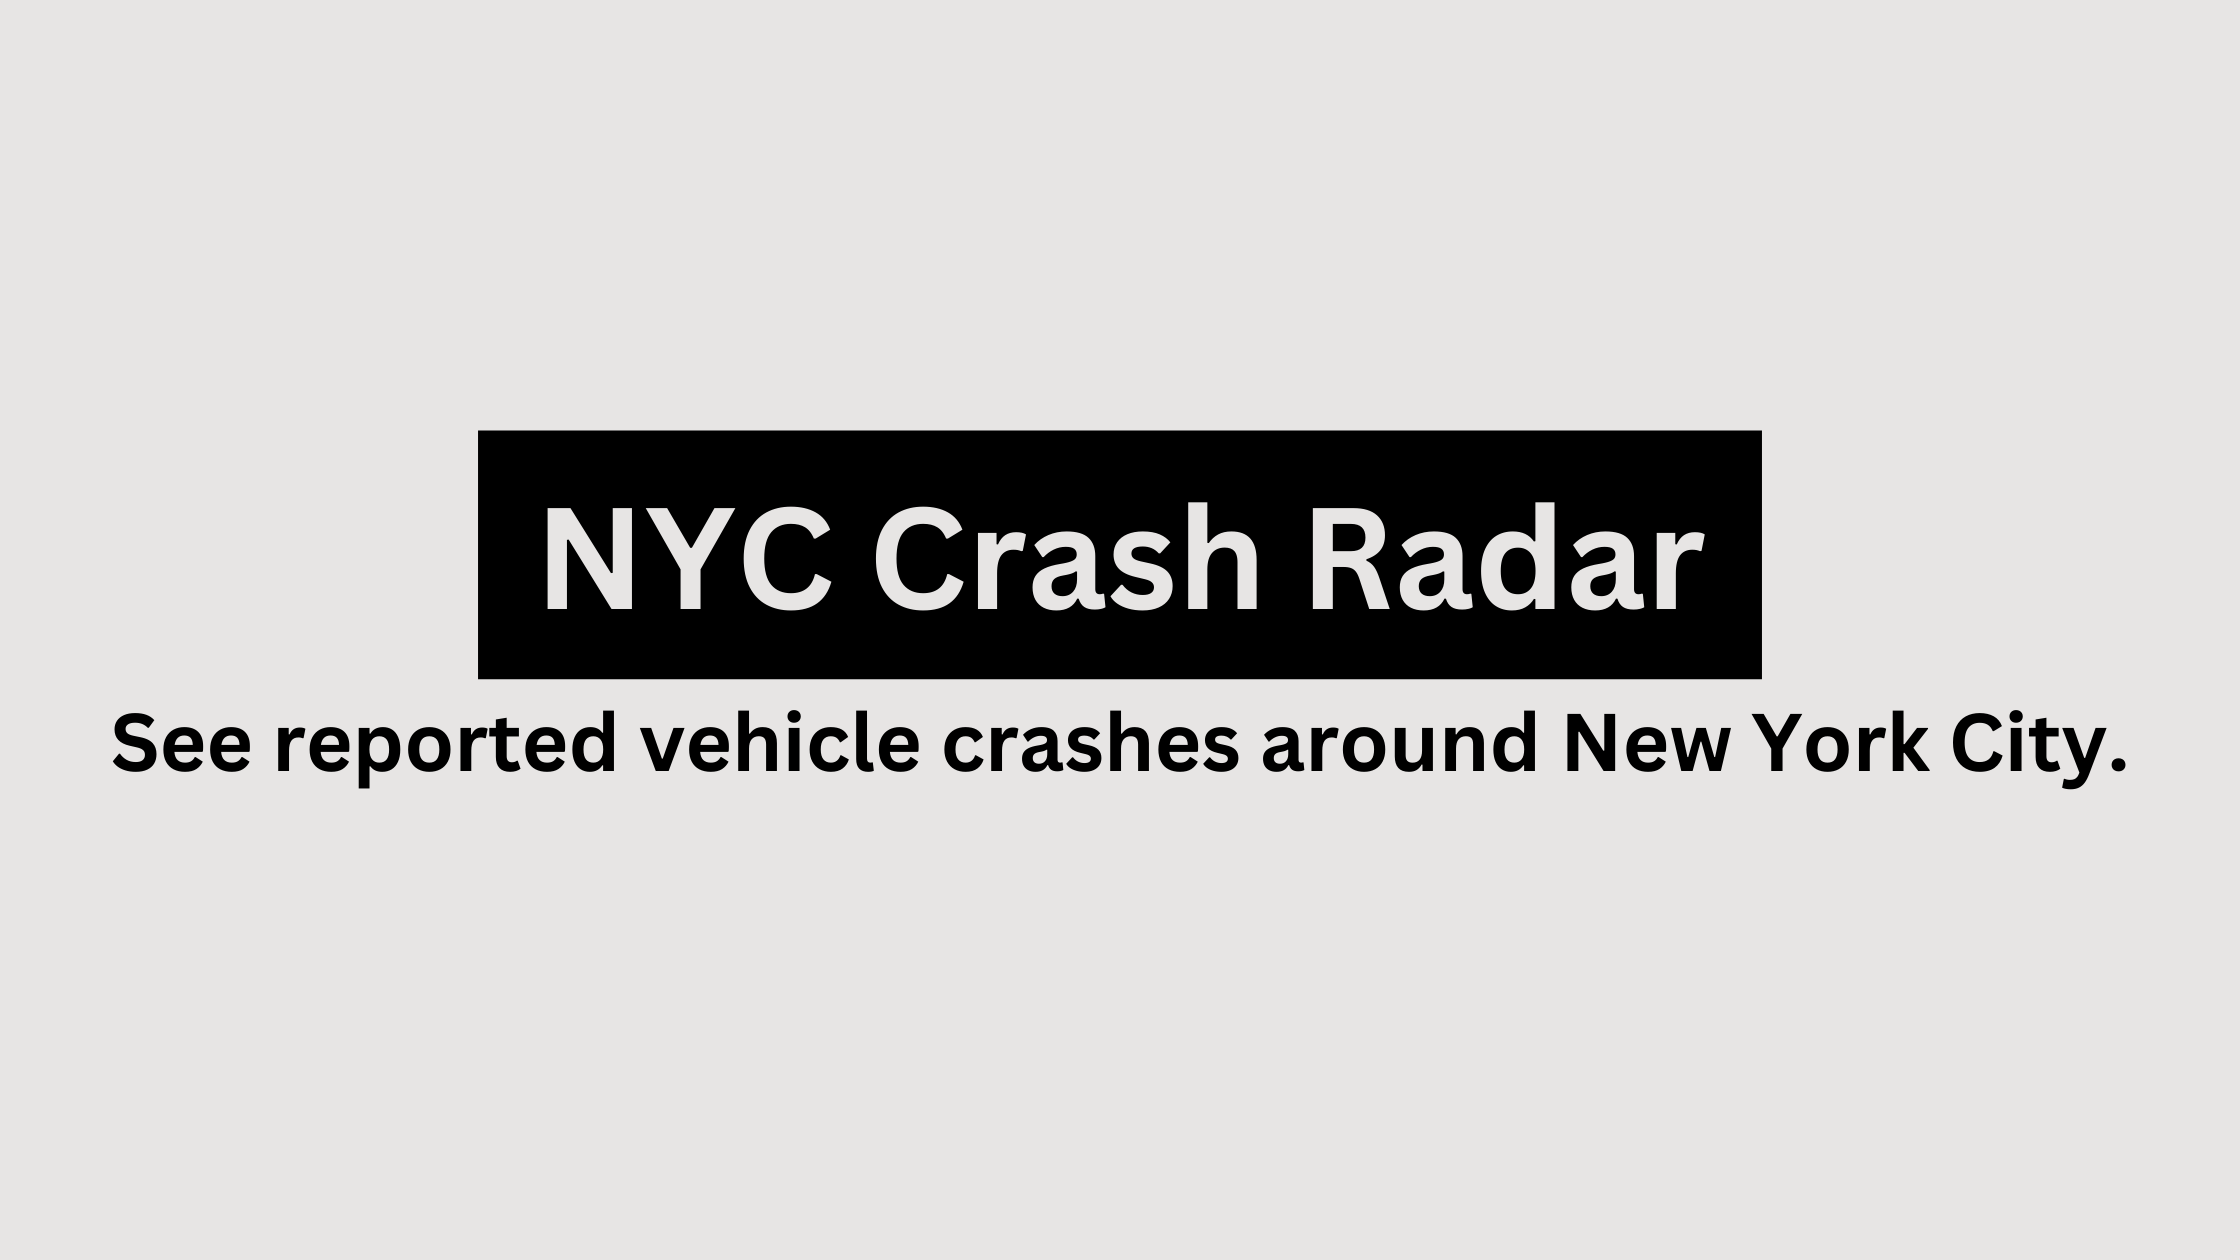
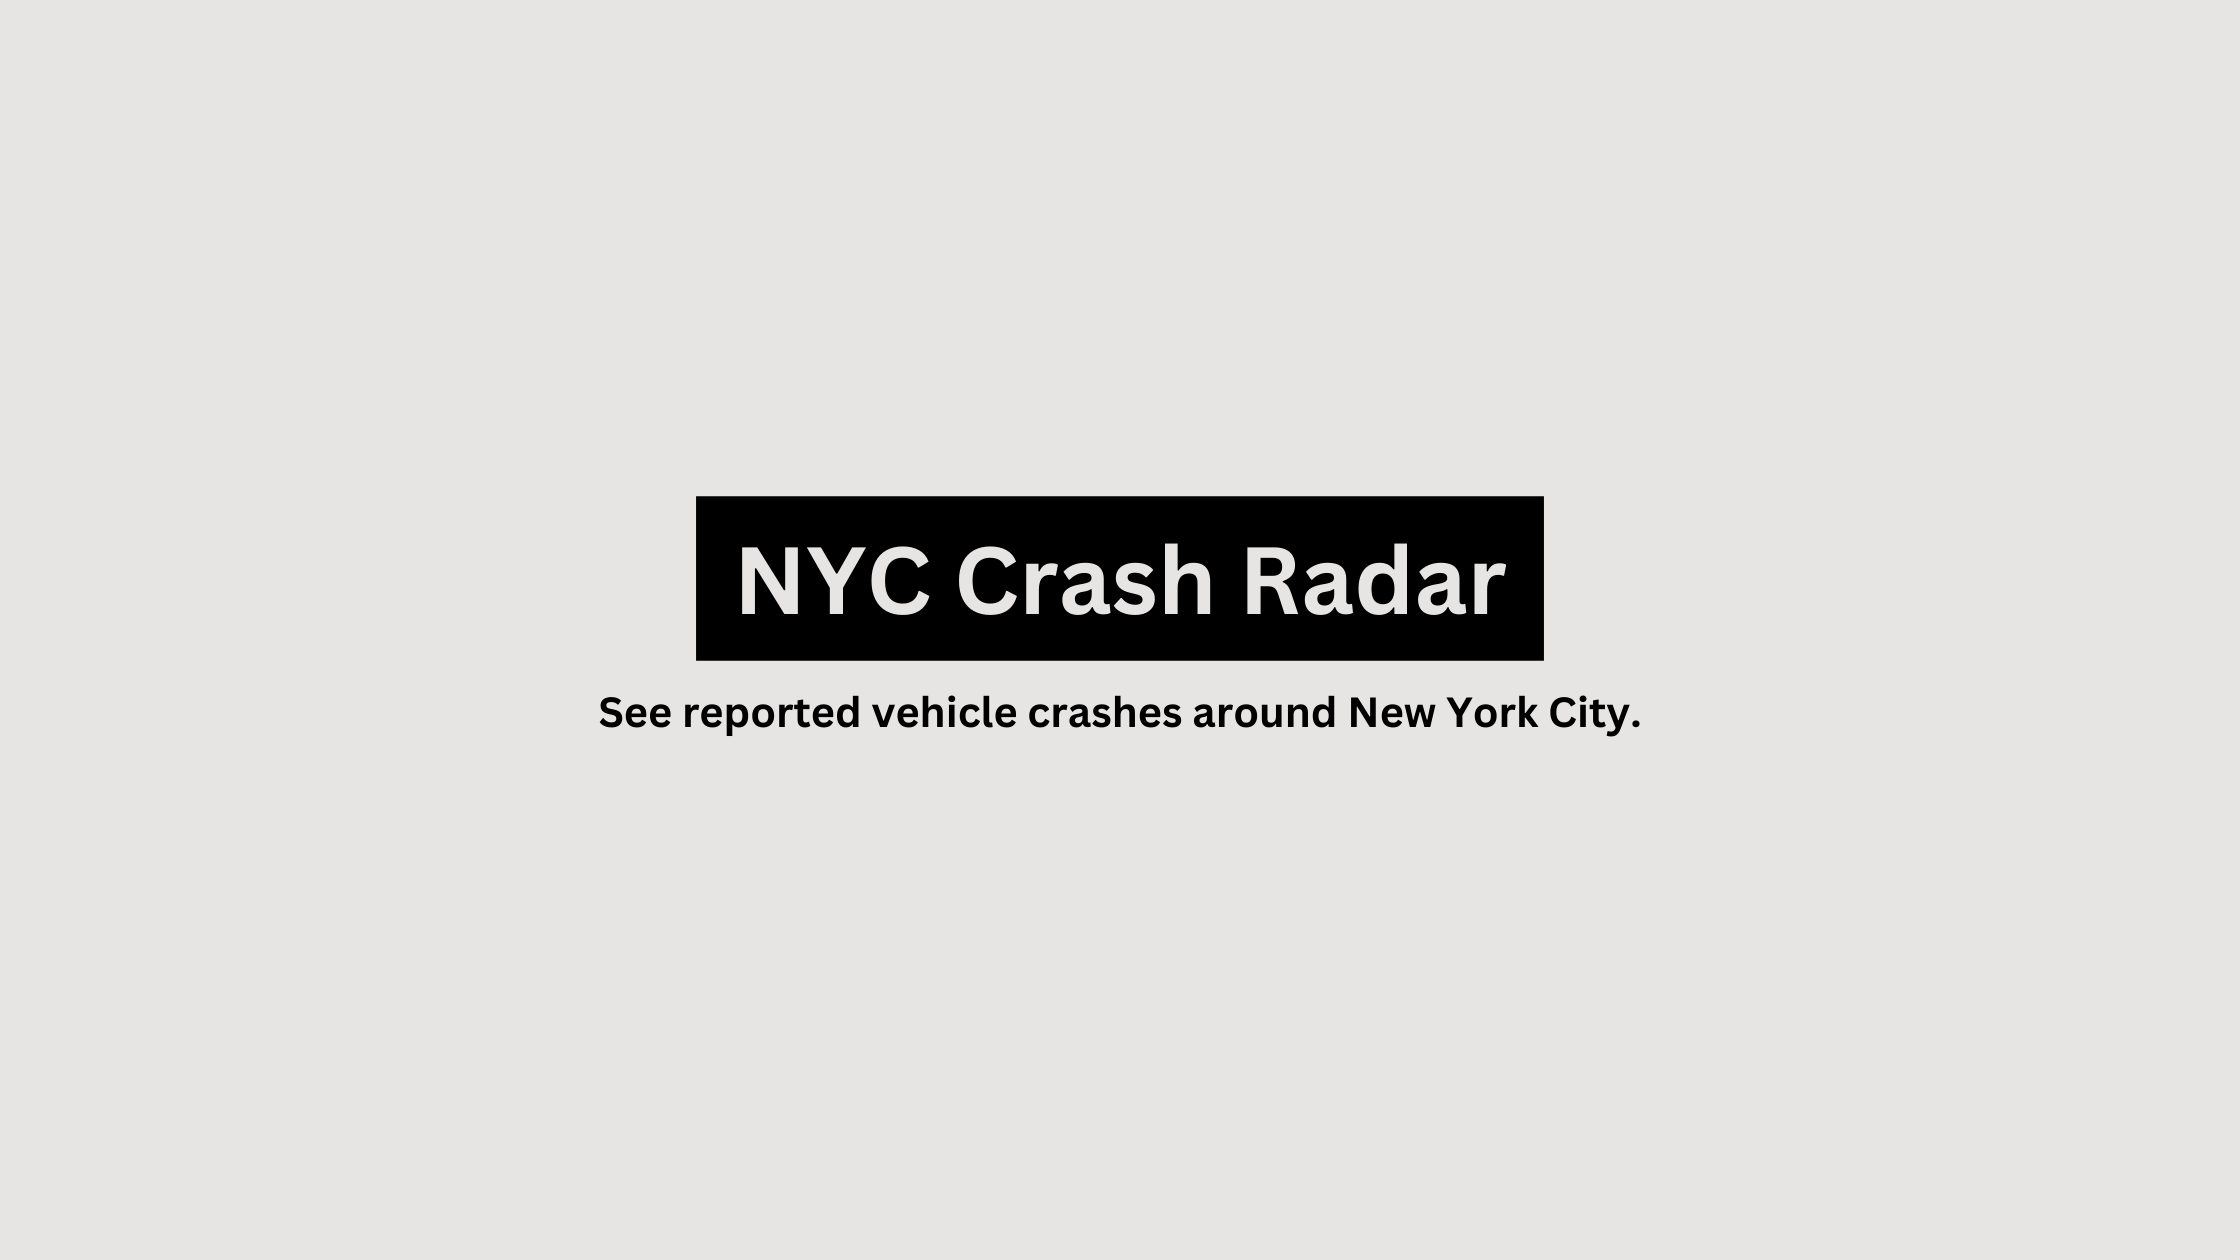
add maps and update social image

Changed region(s): [[0.0312, 0.3405, 0.9375, 0.619]]

diff --git a/src/utils/vehicleIconMap.tsx b/src/utils/vehicleIconMap.tsx
@@ -23,31 +23,31 @@ import { MdCarCrash } from 'react-icons/md';
 
 const iconClasses = 'mx-auto w-8 h-8';
 
-export const iconMapping: Record<string, JSX.Element> = {
-  'Station Wagon/Sport Utility Vehicle': <TbCarSuv className={iconClasses} />,
-  Sedan: <FaCar className={iconClasses} />,
-  'Pick-up Truck': <FaTruckPickup className={iconClasses} />,
-  'Tractor Truck Diesel': <GiTruck className={iconClasses} />,
-  Dump: <GiMineTruck className={iconClasses} />,
-  Tanker: <GiFuelTank className={iconClasses} />,
-  Bike: <MdOutlinePedalBike className={iconClasses} />,
-  Bus: <FaBus className={iconClasses} />,
-  Taxi: <FaTaxi className={iconClasses} />,
-  Van: <PiVanBold className={iconClasses} />,
-  Motorscooter: <GiScooter className={iconClasses} />,
-  'E-Bike': <MdOutlineElectricBike className={iconClasses} />,
-  'E-Scooter': <MdOutlineElectricScooter className={iconClasses} />,
-  Ambulance: <GiAmbulance className={iconClasses} />,
-  AMBULANCE: <GiAmbulance className={iconClasses} />,
-  'Box Truck': <FaTruck className={iconClasses} />,
-  Truck: <FaTruck className={iconClasses} />,
-  'Garbage or Refuse': <HiTruck className={iconClasses} />,
-  Moped: <PiMopedFront className={iconClasses} />,
-  Motorcycle: <FaMotorcycle className={iconClasses} />,
-  'Tow Truck / Wrecker': <GiTowTruck className={iconClasses} />,
-  'Fdny fire': <TbFiretruck className={iconClasses} />,
-  FORKLIFT: <MdForklift className={iconClasses} />,
-};
+export const vehicleIconMap = new Map([
+  ['Station Wagon/Sport Utility Vehicle', <TbCarSuv className={iconClasses} />],
+  ['Sedan', <FaCar className={iconClasses} />],
+  ['Pick-up Truck', <FaTruckPickup className={iconClasses} />],
+  ['Tractor Truck Diesel', <GiTruck className={iconClasses} />],
+  ['Dump', <GiMineTruck className={iconClasses} />],
+  ['Tanker', <GiFuelTank className={iconClasses} />],
+  ['Bike', <MdOutlinePedalBike className={iconClasses} />],
+  ['Bus', <FaBus className={iconClasses} />],
+  ['Taxi', <FaTaxi className={iconClasses} />],
+  ['Van', <PiVanBold className={iconClasses} />],
+  ['Motorscooter', <GiScooter className={iconClasses} />],
+  ['E-Bike', <MdOutlineElectricBike className={iconClasses} />],
+  ['E-Scooter', <MdOutlineElectricScooter className={iconClasses} />],
+  ['Ambulance', <GiAmbulance className={iconClasses} />],
+  ['AMBULANCE', <GiAmbulance className={iconClasses} />],
+  ['Box Truck', <FaTruck className={iconClasses} />],
+  ['Truck', <FaTruck className={iconClasses} />],
+  ['Garbage or Refuse', <HiTruck className={iconClasses} />],
+  ['Moped', <PiMopedFront className={iconClasses} />],
+  ['Motorcycle', <FaMotorcycle className={iconClasses} />],
+  ['Tow Truck / Wrecker', <GiTowTruck className={iconClasses} />],
+  ['Fdny fire', <TbFiretruck className={iconClasses} />],
+  ['FORKLIFT', <MdForklift className={iconClasses} />],
+]);
 
 export const DefaultVehicleIcon = () => {
   return <MdCarCrash className={iconClasses} />;

diff --git a/src/components/CrashFeed.tsx b/src/components/CrashFeed.tsx
@@ -1,11 +1,11 @@
 import { useRef } from 'react';
 import { fetchCrashes } from '@api/fetchCrashes';
 import { formatAsTitleCase } from '@helpers/formatAsTitleCase';
-import { formatDate } from '@/helpers/formatDate';
-import { formatVehicle } from '@/helpers/formatVehicle';
-import { iconMapping, DefaultVehicleIcon } from '@/utils/vehicleIconMap';
+import { formatDate } from '@helpers/formatDate';
+import { vehicleFormattingMap } from '@utils/vehicleMap';
+import { vehicleIconMap, DefaultVehicleIcon } from '@utils/vehicleIconMap';
 import { useIntersection } from '@mantine/hooks';
-import { formatAsSentenceCase } from '@/helpers/formatAsSentenceCase';
+import { formatAsSentenceCase } from '@helpers/formatAsSentenceCase';
 
 const CrashFeed = () => {
   const { isPending, error, data, fetchNextPage, isFetching } = fetchCrashes();
@@ -21,7 +21,6 @@ const CrashFeed = () => {
   }
 
   const crashList = data?.pages?.flatMap(page => page);
-  console.log(crashList);
 
   return (
     <main className='max-w-lg mx-auto mt-10 p-4'>
@@ -88,8 +87,10 @@ const CrashFeed = () => {
                           {crash?.vehicle_type_code2 && (
                             <p>Vehicle {index + 1}</p>
                           )}
-                          {iconMapping[vehicle] ?? <DefaultVehicleIcon />}
-                          {formatVehicle(vehicle)}
+                          {vehicleIconMap.get(vehicle) ?? (
+                            <DefaultVehicleIcon />
+                          )}
+                          {vehicleFormattingMap.get(vehicle) ?? vehicle}
                         </article>
                       );
                     }

diff --git a/src/components/Navbar.tsx b/src/components/Navbar.tsx
@@ -1,8 +1,8 @@
 const Navbar = () => {
   return (
-    <nav className='px-4 py-3 backdrop-blur-sm sticky top-0 sm:backdrop-blur-none'>
+    <nav className='px-4 pt-3 backdrop-blur-sm sticky top-0 sm:backdrop-blur-none'>
       <div className='flex items-center justify-between max-w-7xl mx-auto'>
-        <div className='text-2xl font-bold bg-black text-white px-4 py-2'>
+        <div className='text-xl font-bold bg-black text-white px-4 py-2'>
           NYC Crash Radar
         </div>
       </div>

diff --git a/src/components/Header.tsx b/src/components/Header.tsx
@@ -1,7 +1,7 @@
 const Header = () => {
   return (
     <header className='max-w-2xl mx-auto text-center mt-12 px-4 sm:px-0'>
-      <h1 className='text-xl bg-black text-slate-50 inline-block px-4 py-2 font-bold sm:text-4xl'>
+      <h1 className='text-2xl bg-black text-slate-50 inline-block px-4 py-2 font-bold sm:text-3xl'>
         NYC Crash Radar
       </h1>
       <h2 className='text-xl sm:text-2xl'>

diff --git a/vite.config.ts b/vite.config.ts
@@ -9,6 +9,7 @@ export default defineConfig({
     alias: {
       '@': path.resolve(__dirname, './src'),
       '@api': path.resolve(__dirname, './src/api'),
+      '@utils': path.resolve(__dirname, './src/utils'),
       '@helpers': path.resolve(__dirname, './src/helpers'),
       '@components': path.resolve(__dirname, './src/components'),
     },

diff --git a/src/utils/vehicleMap.ts b/src/utils/vehicleMap.ts
@@ -1,0 +1,8 @@
+export const vehicleFormattingMap = new Map([
+  ['Station Wagon/Sport Utility Vehicle', 'Wagon/SUV'],
+  ['UTILITY', 'Utility'],
+  ['BOX VAN', 'Box Van'],
+  ['AMBULANCE', 'Ambulance'],
+  ['Fdny fire', 'FDNY Fire'],
+  ['FORKLIFT', 'Forklift'],
+]);
